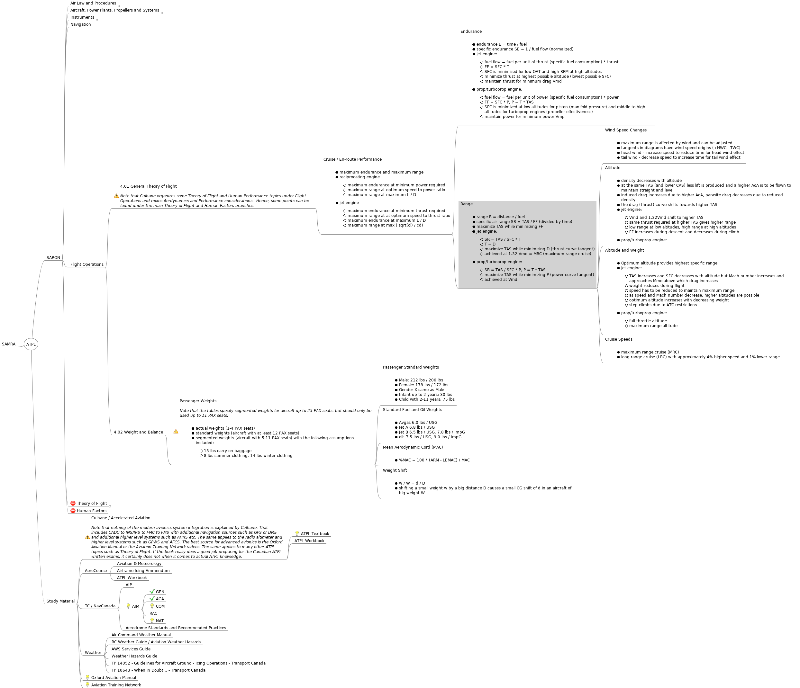
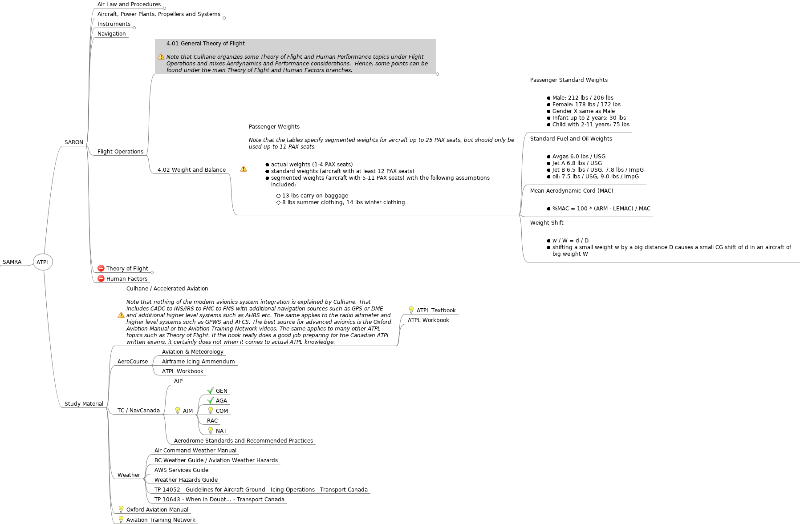
extended ATPL mind map

diff --git a/ATPL/Exam/ATPL.mm b/ATPL/Exam/ATPL.mm
@@ -5827,7 +5827,7 @@
 </node>
 <node CREATED="1568173570034" ID="ID_1285060949" MODIFIED="1568173574370" TEXT="Navigation"/>
 <node CREATED="1568173802936" ID="ID_851590336" MODIFIED="1568173809889" TEXT="Flight Operations">
-<node CREATED="1571851864451" ID="ID_416756973" MODIFIED="1572034838730">
+<node CREATED="1571851864451" FOLDED="true" ID="ID_416756973" MODIFIED="1572115818798">
 <richcontent TYPE="NODE"><html>
   <head>
     
@@ -5845,7 +5845,7 @@
   </body>
 </html></richcontent>
 <icon BUILTIN="messagebox_warning"/>
-<node CREATED="1571852091199" ID="ID_439706302" MODIFIED="1572034855385">
+<node CREATED="1571852091199" FOLDED="true" ID="ID_439706302" MODIFIED="1572115816661">
 <richcontent TYPE="NODE"><html>
   <head>
     
@@ -5959,7 +5959,7 @@
   </body>
 </html></richcontent>
 </node>
-<node CREATED="1571858496187" ID="ID_819240980" MODIFIED="1572036686812">
+<node CREATED="1571858496187" FOLDED="true" ID="ID_819240980" MODIFIED="1572115808854">
 <richcontent TYPE="NODE"><html>
   <head>
     
@@ -5986,10 +5986,7 @@
 
         <ul>
           <li>
-            SR = TAS / SFC * T
-          </li>
-          <li>
-            T = D
+            SR = TAS / SFC * T, T = D
           </li>
           <li>
             maximize TAS while minimizing D (thrust curve tangent)
@@ -6004,7 +6001,7 @@
 
         <ul>
           <li>
-            SR = TAS / SFC * P, P = T * TAS
+            SR = TAS / SFC * P, P = T * TAS, T = D
           </li>
           <li>
             maximize TAS while minimizing P (power curve tangent)
@@ -6016,7 +6013,8 @@
       </li>
     </ul>
   </body>
-</html></richcontent>
+</html>
+</richcontent>
 <node CREATED="1571860546638" ID="ID_671274066" MODIFIED="1571860775426">
 <richcontent TYPE="NODE"><html>
   <head>
@@ -6046,7 +6044,7 @@
   </body>
 </html></richcontent>
 </node>
-<node CREATED="1572034859067" ID="ID_1125331148" MODIFIED="1572109929449">
+<node CREATED="1572034859067" ID="ID_1125331148" MODIFIED="1572114439565">
 <richcontent TYPE="NODE"><html>
   <head>
     
@@ -6079,6 +6077,9 @@
             Vmd and 1.32Vmd shift to higher TAS
           </li>
           <li>
+            thrust available for TAS remains approximately constant
+          </li>
+          <li>
             same thrust required at higher TAS gives higher range
           </li>
           <li>
@@ -6087,14 +6088,30 @@
           <li>
             FF increases during descent and decreases during climb
           </li>
+          <li>
+            SFC decreases with decreasing temperature due to improved compression and expansion and with increasing N1
+          </li>
         </ul>
       </li>
       <li>
         prop/turboprop engine:
+
+        <ul>
+          <li>
+            power available decreases with increasing altitude and TAS
+          </li>
+          <li>
+            power required increases with increasing altitude and TAS
+          </li>
+          <li>
+            range remains approximately the same at higher altitude with higher TAS
+          </li>
+        </ul>
       </li>
     </ul>
   </body>
-</html></richcontent>
+</html>
+</richcontent>
 </node>
 <node CREATED="1571860937457" ID="ID_1543397951" MODIFIED="1571861885344">
 <richcontent TYPE="NODE"><html>
@@ -6152,7 +6169,7 @@
   </body>
 </html></richcontent>
 </node>
-<node CREATED="1571862056501" ID="ID_1755246062" MODIFIED="1571862133458">
+<node CREATED="1571862056501" ID="ID_1755246062" MODIFIED="1572115741156">
 <richcontent TYPE="NODE"><html>
   <head>
     
@@ -6171,9 +6188,16 @@
       <li>
         long range cruise (LRC) with approximately 4% higher speed and 1% lower range
       </li>
+      <li>
+        cost index shifts speed in between MRC and LRC based on hourly variables (fuel cost, crew cost, maintenance cost, lease cost)
+      </li>
+      <li>
+        CI = HC / FC (cost index = hourly costs / fuel costs)
+      </li>
     </ul>
   </body>
-</html></richcontent>
+</html>
+</richcontent>
 </node>
 </node>
 </node>
@@ -6327,10 +6351,10 @@
 </node>
 </node>
 </node>
-<node CREATED="1568173868337" FOLDED="true" ID="ID_1290650653" MODIFIED="1571947322541" TEXT="Theory of Flight">
+<node CREATED="1568173868337" FOLDED="true" ID="ID_1290650653" MODIFIED="1572115152558" TEXT="Theory of Flight">
 <icon BUILTIN="closed"/>
-<node CREATED="1571791842521" FOLDED="true" ID="ID_416036682" MODIFIED="1571941308277" TEXT="4.01 General Theory of Flight">
-<node CREATED="1571791871556" ID="ID_1614108199" MODIFIED="1571791894566">
+<node CREATED="1571791842521" FOLDED="true" ID="ID_416036682" MODIFIED="1572115149945" TEXT="4.01 General Theory of Flight">
+<node CREATED="1571791871556" ID="ID_1614108199" MODIFIED="1572115126055">
 <richcontent TYPE="NODE"><html>
   <head>
     
@@ -6344,11 +6368,18 @@
     </p>
     <ul>
       <li>
-        n = 1 / cos b
+        n = 1 / cos b (bank angle change)
+      </li>
+      <li>
+        n = w / W (weight change)
+      </li>
+      <li>
+        Van = Va * sqrt ( n ) (manouvering speed with load factor change)
       </li>
     </ul>
   </body>
-</html></richcontent>
+</html>
+</richcontent>
 </node>
 <node CREATED="1571791977756" ID="ID_620857148" MODIFIED="1571851747379">
 <richcontent TYPE="NODE"><html>
@@ -6408,7 +6439,7 @@
 <node CREATED="1571795140889" ID="ID_591096612" MODIFIED="1571795152185" TEXT="Span, Taper and Aspect Ratio"/>
 <node CREATED="1571795169821" ID="ID_1283277097" MODIFIED="1571795179785" TEXT="Mean Aerodynamic Cord (MAC)"/>
 </node>
-<node CREATED="1571698150394" ID="ID_330232180" MODIFIED="1571941320055">
+<node CREATED="1571698150394" FOLDED="true" ID="ID_330232180" MODIFIED="1572114978316">
 <richcontent TYPE="NODE"><html>
   <head>
     
@@ -6532,7 +6563,7 @@
   </body>
 </html></richcontent>
 </node>
-<node CREATED="1571705477861" ID="ID_1408529317" MODIFIED="1571774471671">
+<node CREATED="1571705477861" ID="ID_1408529317" MODIFIED="1572114971928">
 <richcontent TYPE="NODE"><html>
   <head>
     
@@ -6555,11 +6586,15 @@
           <li>
             descent maintaining constant TAS below maximum operating TAS Vmo
           </li>
+          <li>
+            flat rated engines could limit the available thrust to below Mmo at all times
+          </li>
         </ul>
       </li>
     </ul>
   </body>
-</html></richcontent>
+</html>
+</richcontent>
 </node>
 <node CREATED="1571774993544" ID="ID_1008799141" MODIFIED="1571791494146">
 <richcontent TYPE="NODE"><html>
